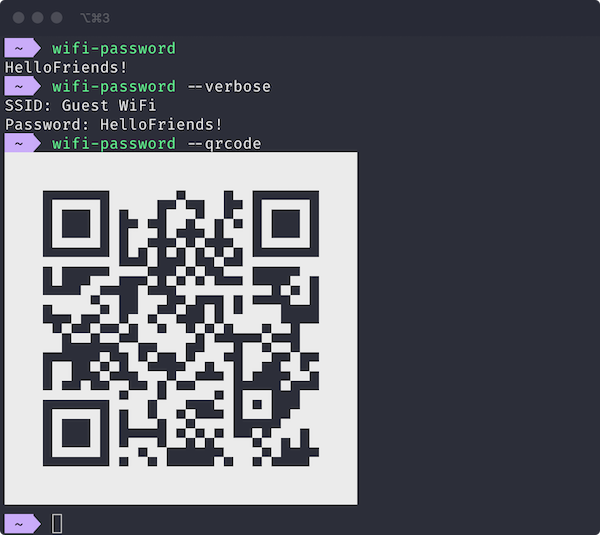
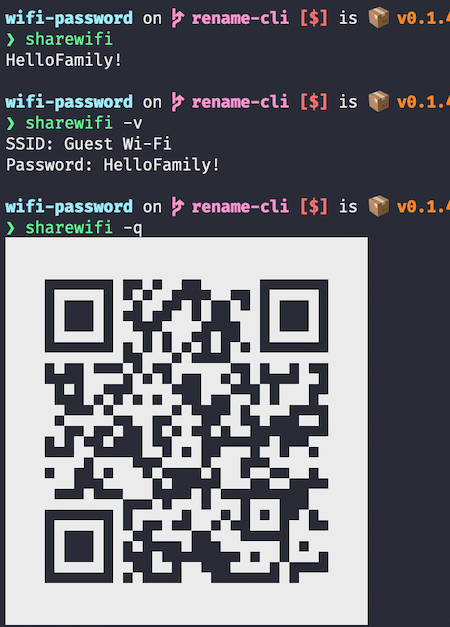
Rename cli (#6)
* rename cli

* remove devcontainer

* update docs for rename

diff --git a/README.md b/README.md
@@ -1,4 +1,4 @@
-# Wi-Fi Password
+# Share Wi-Fi Connection Info
 
 Quickly share Wi-Fi passwords and connection details, including QR codes that auto-configure iOS and Android devices.
 
@@ -15,11 +15,11 @@ Google Lens displaying QR Code details along with button to join network with si
 CLI help output:
 
 ```text
-Wi-Fi Password 0.1.3
+sharewifi 0.1.4
 Uses MacOS airport and keychain CLI tools to obtain the Wi-Fi passwords
 
 USAGE:
-    wifi-password [FLAGS] [OPTIONS]
+    sharewifi [FLAGS] [OPTIONS]
 
 FLAGS:
     -a, --always-allow    Disables future confirmation prompts to access this password. Sudo required
@@ -36,9 +36,7 @@ OPTIONS:
 
 The easiest way to install wifi-password is by using Homebrew.
 
-`brew install bradyjoslin/wifi-password/wifi-password`
-
-*Note: if you just run `brew install wifi-password` instead of the fully qualified name noted above, that will install [rauchg's](https://github.com/rauchg/wifi-password) bash implementation instead.*
+`brew install bradyjoslin/sharewifi`
 
 ## Building and Installing
 
